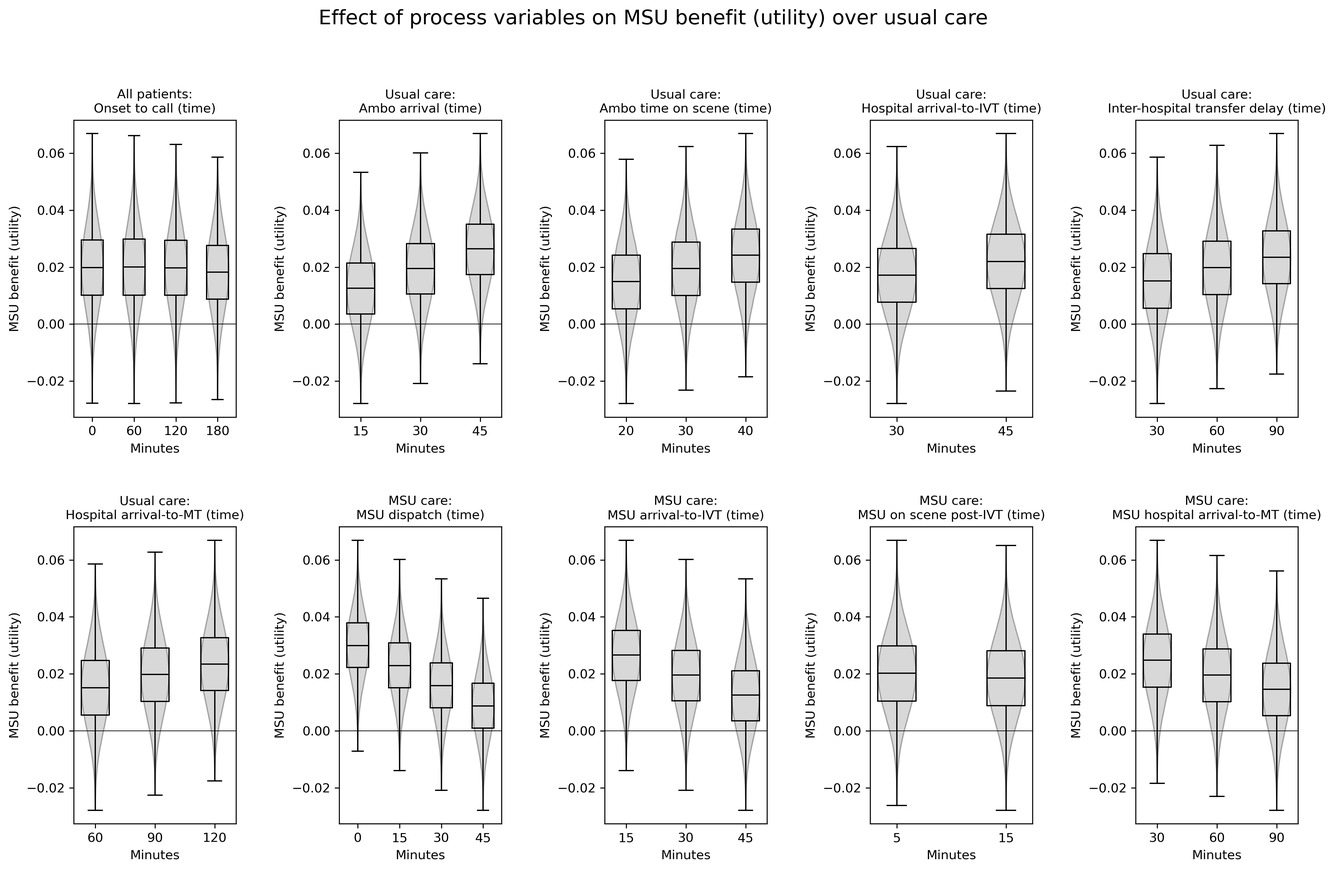
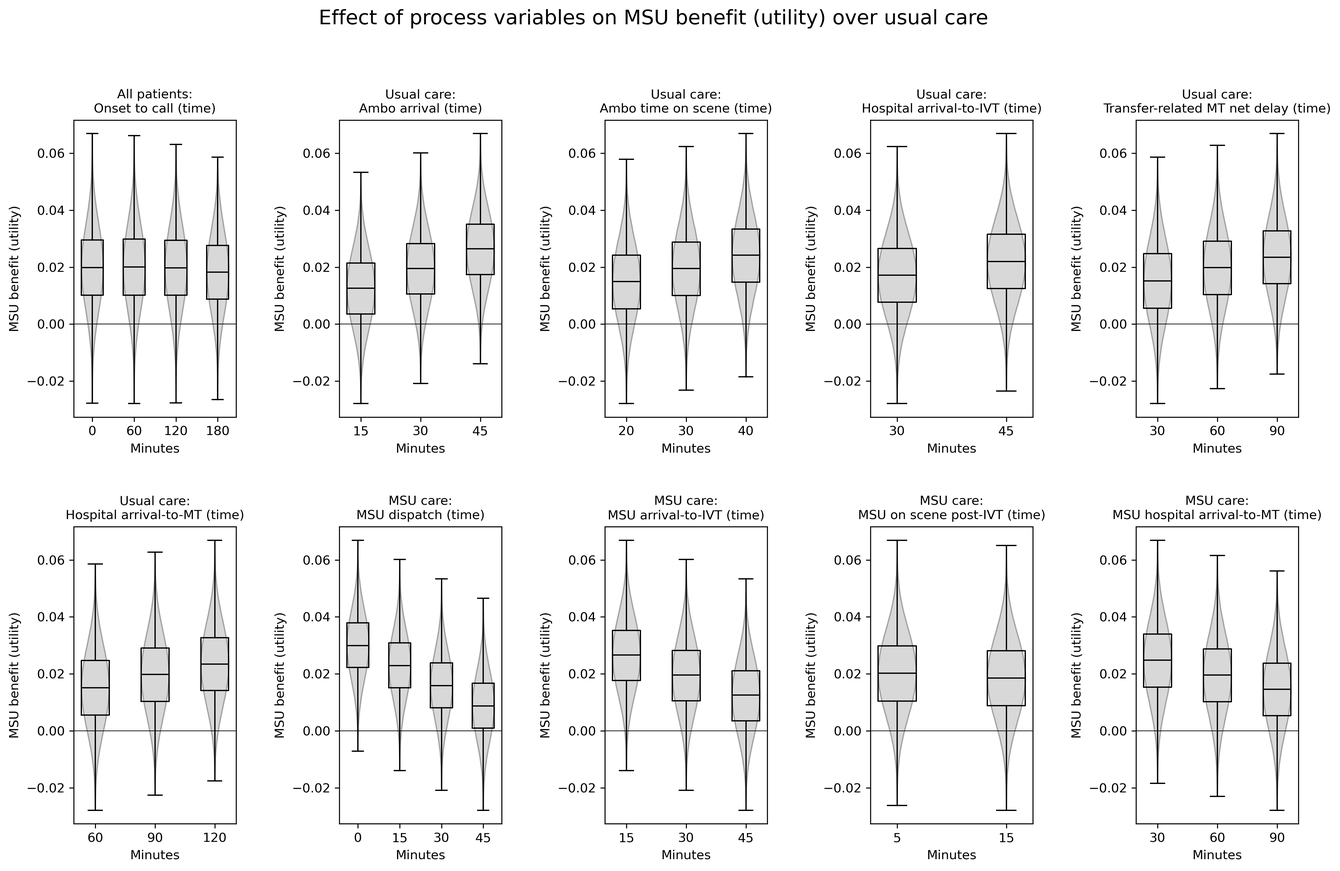
Updates from Overleaf

diff --git a/sections/5_results.tex b/sections/5_results.tex
@@ -2,38 +2,38 @@
 
 \subsection{Scenario analysis}
 
-Figure \ref{fig:scenarios_overview} shows the range of benefit, measured by utility or the proportion of patients with an outcome of mRS 0-2, across all of the scenarios (exploring the affect of changing the process durations), separating the changes for nLVO and LVO, or combining assuming 70\% nLVO and 30\% LVO in the treated population. When combining nLVO and LVO, 92\% of all scenarios showed MSU care has a net improvement in the proportion of patients with an outcome of mRS 0-2, compared with usual care. 77\%, 53\%, 29\%, and 11\% of all scenarios showed MSU care has a net improvement of at least 0.01, 0.02, 0.03, or 0.04 in the proportion of patients with an outcome of mRS 0-2, compared with usual care. 92\% of all scenarios showed MSU care has a net improvement in utility, compared with usual care. 75\%, 49\%, 23\%, and 7\% of all scenarios showed MSU care has a net improvement of at least 0.01, 0.02, 0.03, or 0.04 in utility, compared with usual care. Across the majority of scenarios the benefit of MSU care over usual care was typically (interquartile range across scenarios) an improvement of the proportion of patients mRS 0-2 of 0.005 to 0.023 for nLVO, 0.017 to 0.055 for LVO treated with both IVT and MT, and 0.011 to 0.032 for the combined nLVO/LVO populations. This translated to an improvement of 0.005 to 0.021 in utility for nLVO, 0.016 to 0.052 for LVO treated with both IVT and MT, and 0.010 to 0.029 for the combined nLVO/LVO populations. 
+Figure \ref{fig:scenarios_overview} shows the range of benefit, measured by utility or the proportion of patients with an outcome of mRS 0-2, across all of the scenarios (exploring the affect of changing the process durations), separating the changes for nLVO and LVO, or combining assuming 70\% nLVO and 30\% LVO in the treated population. For the combined nLVO/LVO population, 92\% of all scenarios showed MSU care has a net improvement in the proportion of patients with an outcome of mRS 0-2, compared with usual care. 77\%, 53\%, 29\%, and 11\% of all scenarios showed MSU care has a net improvement of at least 0.01, 0.02, 0.03, or 0.04 in the proportion of patients with an outcome of mRS 0-2, compared with usual care. 92\% of all scenarios showed MSU care has a net improvement in utility, compared with usual care. 75\%, 49\%, 23\%, and 7\% of all scenarios showed MSU care has a net improvement of at least 0.01, 0.02, 0.03, or 0.04 in utility, compared with usual care. Across the majority of scenarios the benefit of MSU care over usual care was typically (interquartile range across scenarios) an improvement of the proportion of patients mRS 0-2 of 0.005 to 0.023 for nLVO, 0.017 to 0.055 for LVO treated with both IVT and MT, and 0.011 to 0.032 for the combined nLVO/LVO population. This translated to an improvement of 0.005 to 0.021 in utility for nLVO, 0.016 to 0.052 for LVO treated with both IVT and MT, and 0.010 to 0.029 for the combined nLVO/LVO population. 
 
-The benefit to patients with LVO was derived mostly by improving benefit of MT by direct transport to a CSC for MT. For the combined nLVO/LVO population (assuming 70\% nLVO and 30\% LVO in the treated population) there was typically (interquartile range across scenarios) an improvement of 0.010 to 0.029 in utility, and an improvement of 0.011 to 0.032 for the proportion of patients with an outcome of mRS 0-2.
+The benefit to patients with LVO was derived mostly by improving benefit of MT by direct transport to a CSC for MT. For the combined nLVO/LVO population there was typically (interquartile range across scenarios) an improvement of 0.010 to 0.029 in utility, and an improvement of 0.011 to 0.032 for the proportion of patients with an outcome of mRS 0-2.
 
 \begin{figure}[h!]
     \centering
     \includegraphics[width=0.75\linewidth]{images/scenario_results_summary.png}
-    \caption{Benefit of MSU care over usual care across all process duration scenarios, in the treated population, measured by utility (left) or the proportion of patients with an outcome of mRS 0-2 (right), separating the changes for nLVO and LVO. Results for LVO show the effect of MSU care on the benefit derived from IVT alone, or by IVT/MT in combination. Box plots show range, interquartile range, and median across all scenarios. The combined nLVO/LVO benefit assumed 70\% nLVO and 30\% LVO in the treated population, with LVOs receiving IVT/MT in combination. Overlaid over the box plots are violin plots showing the distribution of results across all scenarios. A positive value indicates MSU care provides an advantage over usual care, and a negative value indicates MSU care is disadvantageous compared with usual care. Results are the average effect across all LSOAs in England.}
+    \caption{Benefit of MSU care over usual care across all scenarios (exploring the affect of changing process durations), in the treated population, measured by utility (left) or the proportion of patients with an outcome of mRS 0-2 (right), separating the changes for nLVO and LVO. Results for LVO show the effect of MSU care on the benefit derived from IVT alone, or by IVT/MT in combination. Box plots show range, interquartile range, and median across all scenarios. The combined nLVO/LVO benefit assumed 70\% nLVO and 30\% LVO in the treated population, with LVOs receiving IVT/MT in combination. Overlaid over the box plots are violin plots showing the distribution of results across all scenarios. A positive value indicates MSU care provides an advantage over usual care, and a negative value indicates MSU care is disadvantageous compared with usual care. Results are the average effect across all LSOAs in England.}
     \label{fig:scenarios_overview}
 \end{figure}
 
-Figures \ref{fig:scenarios_mrs}  and \ref{fig:scenarios_utility} shows how changing modelled process durations affects the predicted benefit of MSU care, expressed in proportion mRS 0-2 or utility, respectively. Results show the combined affect on nLVO/LVO, with LVO receiving IVT/MT in combination. Changing time from onset to call only had marginal effect on the benefit of MSU care over usual care. Changing parameters that worsen usual care (such as lengthening ambulance response times, or lengthening arrival to IVT), lead to improved advantages of MSU care over usual care. Likewise, changing parameters that improve MSU care (such as MSU dispatch times, or time to IVT on scene) improved advantages of MSU care over usual care.
+Figures \ref{fig:scenarios_mrs}  and \ref{fig:scenarios_utility} shows how changing modelled process durations affects the predicted benefit of MSU care, expressed in proportion of patients with an outcome of mRS 0-2 or utility, respectively. Results show the combined affect on nLVO/LVO, with LVO receiving IVT/MT in combination. Changing time from onset to call only had marginal effect on the benefit of MSU care over usual care. Changing parameters that worsen usual care (such as lengthening ambulance response times, or lengthening arrival to IVT), lead to improved advantages of MSU care over usual care. Likewise, changing parameters that improve MSU care (such as MSU dispatch times, or time to IVT on scene) improved advantages of MSU care over usual care.
 
 \begin{figure}[h!]
     \centering
     \includegraphics[width=1\linewidth]{images/msu_net_mrs_0-2_benefit.png}
-    \caption{The effect of changing modelled process durations on the predicted benefit of MSU care over usual care, in the treated population, measured by utility. For each target parameter, results are averaged across all scenarios with that given parameter value. Box plots show range, interquartile range, and median, across all scenarios. Overlaid over the box plots are violin plots showing the distribution of results across all scenarios. Results are the average effect across all LSOAs in England.}
+    \caption{The effect of changing modelled process durations on the predicted benefit of MSU care over usual care, in the treated population (comprised of 30\% nLVO and 70\% LVO patients, where nLVO patients receive IVT and LVO patients receive IVT followed by MT), measured by proportion of patients with an outcome of mRS 0-2. For each target parameter, results are averaged across all scenarios with that given parameter value. Box plots show range, interquartile range, and median, across all scenarios. Overlaid over the box plots are violin plots showing the distribution of results across all scenarios. Results are the average effect across all LSOAs in England.}
     \label{fig:scenarios_mrs}
 \end{figure}
 
 \begin{figure}[h!]
     \centering
     \includegraphics[width=1\linewidth]{images/msu_net_utility_benefit.png}
-    \caption{The effect of changing modelled process durations on the predicted benefit of MSU care over usual care, in the treated population, measured by utility. For each target parameter, results are averaged across all scenarios with that given parameter value. Box plots show range, interquartile range, and median, across all scenarios. Overlaid over the box plots are violin plots showing the distribution of results across all scenarios. Results are the average effect across all LSOAs in England.}
+    \caption{The effect of changing modelled process durations on the predicted benefit of MSU care over usual care, in the treated population (comprised of 30\% nLVO and 70\% LVO patients, where nLVO patients receive IVT and LVO patients receive IVT followed by MT), measured by utility. For each target parameter, results are averaged across all scenarios with that given parameter value. Box plots show range, interquartile range, and median, across all scenarios. Overlaid over the box plots are violin plots showing the distribution of results across all scenarios. Results are the average effect across all LSOAs in England.}
     \label{fig:scenarios_utility}
 \end{figure}
 
 \subsection{Geographic variation}
 
-For this comparison, the MSUs are based at CSCs only, and we assume there is a mix of 70\% nLVO and 30\% LVO in the treated population.
+For this comparison, the MSUs are based at CSCs only, and we assume there is a mix of 70\% nLVO and 30\% LVO in the treated population (where nLVO patients receive IVT and LVO patients receive IVT followed by MT).
 
-Figure \ref{fig:map_times} shows travel and transfer times for usual care and for MSU care. Under usual care, when a patient first attends a PSC (providing only IVT), the times to MT include the travel time to the nearest PSC, the inter-hospital travel time between PSC and its nearest CSC, and a net additional delay of 60 minutes (taking into account the \textit{door-in-door-out} time at the first admitting hospital and any reduction in time to MT at the CSC for transferred-in patients. Under usual care, there is significant variation in travel times from patient LSOA to the first attended centre (PSC or CSC) for IVT, but there is more substantial variation in times to MT due to some patients (67\% of LSOAs and 70\% of admissions) requiring a transfer for MT. Under MSU care, as the MSUs are based at CSCs only, travel times for an MSU to deliver IVT can exceed the travel time of a normal ambulance to the closest centre providing IVT, and this extra travel time can lead to delayed time to IVT in those LSOAs furthest away from MSU base locations. However, for patients living in LSOAs that are close to a CSC, but with a PSC even closer, these patients benefit from MT sooner under MSU care, than compared to usual care as they avoid the delays relating to attending the PSC first.
+Figure \ref{fig:map_times} shows travel and transfer times for usual care and for MSU care. Under usual care, when a patient first attends a PSC (providing only IVT), the travel/transfer time to MT include the travel time to the nearest PSC, and a net additional 60 minute delay (taking into account the \textit{door-in-door-out} time at the first admitting hospital and a reduction in time to MT at the CSC for transferred-in patients). Under usual care, there is significant variation in travel times from patient LSOA to the first attended centre (PSC or CSC) for IVT, but there is more substantial variation in times to MT due to some patients (67\% of LSOAs and 70\% of admissions) requiring a transfer for MT. Under MSU care, as the MSUs are based at CSCs only, travel times for an MSU to deliver IVT can exceed the travel time of a normal ambulance to the closest centre providing IVT, and this extra travel time can lead to delayed time to IVT in those LSOAs furthest away from MSU base locations. However, for patients living in LSOAs that are close to a CSC, but with a PSC even closer, these patients benefit from MT sooner under MSU care, than compared to usual care as they avoid the delays relating to attending the PSC first.
 
 \begin{figure}[h!]
     \centering
@@ -42,12 +42,11 @@ Figure \ref{fig:map_times} shows travel and transfer times for usual care and fo
     \label{fig:map_times}
 \end{figure}
 
+With no reperfusion treatment, there is an average outcome utility of 0.52 across the combined nLVO/LVO population. With usual care, there is a utility gain of 0.086 in treated patients. MSU care provided an average further utility gain in treated patients of 0.022 over usual care.
 
-With no reperfusion treatment, there is an average outcome utility of 0.52 across nLVO and LVO. With usual care, there is a utility gain of 0.086 in treated patients. MSU care provided an average further utility gain in treated patients of 0.022 over usual care.
+Figures \ref{fig:msu_map_mrs_0_2} and \ref{fig:msu_map_utility} show maps (by stroke type) of geographic variation in benefit (expressed in proportion of patients with an outcome of mRS 0-2 or utility, respectively) between treatment delivery models. There is significant variation in the benefit of reperfusion using usual care, with those living closest to CSCs receiving the greatest benefit. This is due to the larger utility gain of reperfusion treatment coming from the treatment of LVO, and with those patients benefiting most from rapid access to MT.
 
-Figures \ref{fig:msu_map_mrs_0_2} and \ref{fig:msu_map_utility} show maps (by stroke type) of geographic variation in benefit (expressed in proportion mRS 0-2 or utility, respectively) between treatment models. There is significant variation in the benefit of reperfusion using usual care, with those living closest to CSCs receiving the greatest benefit. This is due to the larger utility gain of reperfusion treatment coming from the treatment of LVO, and with those patients benefiting most from rapid access to MT.
-
-The benefit of MSU care over usual care follows different patterns for nLVO and LVO patients. For nLVO patients, the benefit of MSU care decreases with increased distance from the MSU base location. For LVO patients the benefit of MSU care first decreases with with increased distance from the MSU base location, but then benefit increases where use of the MSU avoids inter-hospital transfer for MT, before decreasing again with greater travel times for the MSU. The catchment area of benefit for LVO under MSU care is therefore wider than the catchment area of benefit for nLVO, with the maximum benefit being in a halo a little distance from the MSU base location, where patient transfer for MT is avoided but MSU travel times are still acceptable.
+The benefit of MSU care over usual care follows different patterns for nLVO and LVO patients. For nLVO patients, the benefit of MSU care decreases with increased distance from the MSU base location. For LVO patients the benefit of MSU care first decreases with increased distance from the MSU base location, but then benefit increases where use of the MSU avoids inter-hospital transfer for MT, before decreasing again with greater travel times for the MSU. The catchment area of benefit for LVO under MSU care is therefore wider than the catchment area of benefit for nLVO, with the maximum benefit being in a halo a little distance from the MSU base location, where patient transfer for MT is avoided but MSU travel times are still acceptable.
 
 \begin{figure}[h!]
     \centering
@@ -64,7 +63,7 @@ The benefit of MSU care over usual care follows different patterns for nLVO and 
 \end{figure}
 
 
-Figure \ref{fig:msu_histograms} shows histograms of benefit of MSU care over usual care for the modelled population (with benefit represented as time to treatment, proportion of patients mRS 0-2 after stroke, and utility). For most LSOAs MSU care improves the time to IVT and MT, but some areas have worsened times. This is reflected in most areas having a benefit of about a 0.03 increase in the proportion of patients with mRS 0-2 after stroke, and similarly a benefit of about a 0.03 increase in utility after stroke. Some areas though have reduced benefit, or even disbenefit of using MSUs. The maximum benefit is about 0.04 improvement in both the proportion of patients with mRS 0-2 after stroke and utility after stroke.
+Figure \ref{fig:msu_histograms} shows histograms of benefit of MSU care over usual care for the modelled population (with benefit represented as time to treatment, proportion of patients with outcome mRS 0-2 after stroke, and utility). For most LSOAs MSU care improves the time to IVT and MT, but some areas have worsened times. This is reflected in most areas having a benefit of about a 0.03 increase in the proportion of patients with mRS 0-2 after stroke, and similarly a benefit of about a 0.03 increase in utility after stroke. Some areas though have reduced benefit, or even disbenefit of using MSUs. The maximum benefit is about 0.04 improvement in both the proportion of patients with mRS 0-2 after stroke and utility after stroke.
 
 \begin{figure}[h]
     \centering
@@ -75,16 +74,21 @@ Figure \ref{fig:msu_histograms} shows histograms of benefit of MSU care over usu
 
 \subsection{Varying number of MSU base locations}
 
-A greedy algorithm was used to select MSU base locations (where MSU locations are added one at a time, with each new location selected based on the best possible improvement in utility by adding one more unit). The utility gain is calculated for those patients treated by an MSU rather than usual care. As the number of MSU base locations increased, the benefit of MSU care over usual care increased (figure \ref{fig:greedy}), but with diminishing returns. The advantage of MSU care over usual care improved utility by 0.020, 0.024, 0.027, and 0.29 with 10, 25, 50 and 100 MSU base locations when MSU base locations are chosen from any stroke unit type. There were 3 CSCs in the first 10 selections, and 8 CSCs in the first 20 selections. With MSU base locations at the 23 current CSCs, the net utility benefit over usual care was 0.022. With the same number of MSU base locations being selected from any stroke centre type, the utility benefit can be increased to 0.023.
+A greedy algorithm was used to select MSU base locations (where MSU base locations are sequentially added one at a time, with each new location selected based on the best possible improvement in utility by adding one more unit). The utility gain is calculated for those patients treated by an MSU rather than with usual care. As the number of MSU base locations increased, the benefit of MSU care over usual care increased (figure \ref{fig:greedy}), but with diminishing returns. The advantage of MSU care over usual care improved utility by 0.020, 0.024, 0.027, and 0.29 with 10, 25, 50 and 100 MSU base locations when MSU base locations are chosen from any stroke unit type. There were 3 CSCs in the first 10 selections, and 8 CSCs in the first 20 selections. With MSU base locations at the 23 current CSCs, the net utility benefit over usual care was 0.022. With the same number of MSU base locations being selected from any stroke centre type, the utility benefit can be increased to 0.023.
 
 \begin{figure}[h]
     \centering
     \includegraphics[width=0.5\linewidth]{images/msu_advantages_greedy.png}
-    \caption{Increasing number of MSU base locations, with selection by a greedy algorithm based on improvements in utility. The utility improvement is for those patients treated by MSU rather than usual care. Units were chosen either from any stroke centre type (solid line) or only from CSCs (dashed line).}
+    \caption{Increasing number of MSU base locations, with selection by a greedy algorithm based on improvements in utility. The additional utility is for those patients treated by MSU rather than usual care. Units were chosen either from any stroke centre type (solid line) or only from CSCs (dashed line).}
     \label{fig:greedy}
 \end{figure}
 
 \subsection{Proportion of patients receiving reperfusion}
 
-In our modelling we have focussed on the benefit for those who receive IVT or MT. Overall, the central probability across realistic scenarios was one extra independent-living outcome for every 50 patients treated. IVT and MT rates vary significantly between countries \cite{kim_global_2024}, but we might take a realistic target of 20\% of patients receiving IVT or MT, in which case there would be one extra independent-living outcome for every 250 confirmed stroke patients where the MSU is dispatched. Not all patients suspected of having stroke at ambulance dispatch will have a confirmed stroke; positive predicted value of suspected stroke at emergency dispatch is about 50\% \cite{wenstrup_emergency_2024}, in which case there would be one extra independent-living outcome for every 500 of all patients where the MSU is dispatched.
+\textbf{SEE NEW PARAGRAPH OPTION BELOW}
 
+In our modelling we have focussed on the benefit for those who receive IVT or MT. Overall, the central probability across realistic scenarios was one extra independent-living outcome for every 50 patients treated. IVT and MT rates vary significantly between countries \cite{kim_global_2024}, but we might take a realistic target of 20\% of patients receiving IVT or MT, in which case there would be one extra independent-living outcome for every 250 confirmed stroke patients where the MSU is dispatched. Not all patients suspected of having a stroke at ambulance dispatch will have a confirmed stroke; positive predicted value of suspected stroke at emergency dispatch is about 50\% \cite{wenstrup_emergency_2024}, in which case there would be one extra independent-living outcome for every 500 of all patients where the MSU is dispatched.
+
+\textbf{ADJUSTING THE ABOVE PARAGRAPH TO CONTAIN A TRACEABLE METHOD}
+
+In our modelling we have focussed on the benefit for those who receive IVT or MT. Here we will translate our results into how many patients to treat with MSUs to get one extra independent-living outcome. To represent an \emph{overall} case, take the the median benefit across all scenarios for the combined nLVO/LVO treated population; this is an additional 0.020 for the proportion of patients with an outcome of mRS 0-2 (RHS plot in figure \ref{fig:scenarios_overview}). This can be translated as one extra independent-living outcome for every 50 patients treated. IVT and MT rates vary significantly between countries \cite{kim_global_2024}, and we acknowledge that national stroke systems would benefit from unit specific targets to reflect their specific setting \cite{OUR PAPER, BUT NEED TO FIND OUT WHICH ONE}, but for this illustrative purpose, we will take 20\% of patients receiving IVT or MT as a broadly realistic target, in which case there would be one extra independent-living outcome for every 250 confirmed stroke patients where the MSU is dispatched. Not all patients suspected of having a stroke at ambulance dispatch will have a confirmed stroke; positive predicted value of suspected stroke at emergency dispatch is about 50\% \cite{wenstrup_emergency_2024}, in which case there would be one extra independent-living outcome for every 500 of all patients where the MSU is dispatched.

diff --git a/sections/4_methods.tex b/sections/4_methods.tex
@@ -12,7 +12,7 @@ We performed our analysis across England using LSOA as our geographic footprint.
 
 \subsection{Stroke admission data}
 
-Stroke admission numbers per LSOA were taken from Hospital Episode Statistics (HES) 2017-2019 (using ICD-10 codes of I61, I63 and I64). The stroke patient population were divided into stroke type cohorts, based on vessel occlusion type (LVO and nLVO). Using analysis from reperfusion treatment clinical trials \cite{lees_time_2010, emberson_effect_2014, goyal_endovascular_2016, fransen_time_2016}, we classify each patient's vessel occlusion type based on their National Institutes of Health Stroke Scale (NIHSS) on arrival (NIHSS 0-10 as nLVO; NIHSS 11+ as LVO), as NIHSS has been shown to have higher accuracy in separating nLVO and LVO than other stroke scales (Area Under the Receiver Operating Characteristic Curve = 0.86 \cite{duvekot_comparison_2021}). Applying this classification to the stroke admission data in England and Wales (Sentinel Stroke National Audit Programme), this provides an estimate of 30\% LVO and 70\% nLVO in the treatable population. This proportion split was applied to each of the LSOAs in the study (to divide the total stroke admissions by LSOA as provided by HES into these two patient stroke type cohorts). These derived values were also cross-checked against stroke types identified in studies on pre-hospital selection of patients with suspected LVO \cite{de_la_ossa_herrero_design_2013}, where LVO made up 38\% of the population where RACE was applied. Population density was taken from the Office of National Statistics 2011 census.
+Stroke admission numbers per LSOA were taken from Hospital Episode Statistics (HES) 2017-2019 (using ICD-10 codes of I61, I63 and I64). In total there were 242,874 recorded stroke admissions coming from an England LSOA across those three years (an average of 2.47 admissions per LSO per year). The stroke patient population were divided into stroke type cohorts, based on vessel occlusion type (LVO and nLVO). Using analysis from reperfusion treatment clinical trials \cite{lees_time_2010, emberson_effect_2014, goyal_endovascular_2016, fransen_time_2016}, we classify each patient's vessel occlusion type based on their National Institutes of Health Stroke Scale (NIHSS) on arrival (NIHSS 0-10 as nLVO; NIHSS 11+ as LVO), as NIHSS has been shown to have higher accuracy in separating nLVO and LVO than other stroke scales (Area Under the Receiver Operating Characteristic Curve = 0.86 \cite{duvekot_comparison_2021}). Applying this classification to the stroke admission data in England and Wales (Sentinel Stroke National Audit Programme), this provides an estimate of 30\% LVO and 70\% nLVO in the treatable population. This proportion split was applied to each of the LSOAs in the study (to divide the total stroke admissions by LSOA as provided by HES into these two patient stroke type cohorts). These derived values were also cross-checked against stroke types identified in studies on pre-hospital selection of patients with suspected LVO \cite{de_la_ossa_herrero_design_2013}, where LVO made up 38\% of the population where RACE was applied. Population density was taken from the Office of National Statistics 2011 census.
 
 \subsection{Pathway processes modelling}
 
@@ -61,7 +61,7 @@ Scenario analysis was undertaken to investigate how changing assumed model param
         \item Call to ambulance arrival: 15, 30, 45
         \item Ambulance on-scene: 20, 30, 45
         \item Hospital arrival to IVT (door-to-needle): 30, 45
-        \item Net MT delay (excluding travel time): 30, 60, 90
+        \item Transfer-related net MT delay (excluding travel time): 30, 60, 90
         \item Hospital arrival to MT (door-to-puncture): 60, 90, 120
     \end{itemize}
     \item Mobile stroke units:
@@ -75,7 +75,7 @@ Scenario analysis was undertaken to investigate how changing assumed model param
 \end{spacing}
 \end{minipage}
 
-At the CSC in the usual care pathway, the \emph{hospital arrival to MT} time is likely to be shorter for patients transferred from a PSC, than for patients who are directly admitted. This is due to some of the necessary processes (such as information gathering, imaging and IVT) already being completed at the PSC. However, these patients will experience a delay in receiving MT (in addition to their inter-hospital travel time) due to waiting for transfer from the PSC. These two time durations (additional time waiting for transfer and shorter \emph{hospital arrival to MT}) are represented in the model as a single parameter: the \emph{net MT delay} parameter. For example, if the time spent in the PSC is 90 minutes (known as the \textit{door-in-door-out} time), but the \textit{hospital arrival to MT} is reduced by 30 minutes, this is represented by setting \textit{net delay in MT} to 60 minutes in the model and leaving the \emph{hospital arrival to MT} unchanged.
+At the CSC in the usual care pathway, the \emph{hospital arrival to MT} time is likely to be shorter for patients transferred from a PSC, than for patients who are directly admitted. This is due to some of the necessary processes (such as information gathering, imaging and IVT) already being completed at the PSC. However, these patients will experience a delay in receiving MT (in addition to their inter-hospital travel time) due to waiting for transfer from the PSC. These two time durations (additional time waiting for transfer and shorter \emph{hospital arrival to MT}) are represented in the model as a single parameter: the \emph{transfer-related net MT delay} parameter. For example, if the time spent in the PSC is 90 minutes (known as the \textit{door-in-door-out} time), but the \textit{hospital arrival to MT} is reduced by 30 minutes, this is represented by setting \textit{transfer-related net MT delay} to 60 minutes in the model and leaving the \emph{hospital arrival to MT} unchanged.
 
 \subsection{Geographic analysis}
 
@@ -93,7 +93,7 @@ To study geographic variation in benefit of MSU care, a single set of parameters
         \item Call to ambulance arrival: 20
         \item Ambulance on-scene: 30
         \item Hospital arrival to IVT: 45
-        \item Transfer-related delay (excluding travel time): 60
+        \item Transfer-related net MT delay (excluding travel time): 60
         \item Hospital arrival to MT: 90
     \end{itemize}
     \item Mobile stroke units:
@@ -110,4 +110,4 @@ To study geographic variation in benefit of MSU care, a single set of parameters
 
 \subsection{Varying number of MSU base locations}
 
-In order to study the effect of changing the number of MSU base locations, a greedy algorithm was used. In this method, 100 MSU base locations are sequentially added, with each additional one chosen only from the CSCs, in the order of maximum improvement in outcomes (utility). The utility gain is calculated for those patients treated by an MSU rather than usual care; the algorithm is therefore looking at the effect of changing the number of MSU base locations, rather than the number of physical MSUs. The algorithm can also be run with MSUs chosen from any stroke unit type.
+In order to study the effect of changing the number of MSU base locations, a greedy algorithm was used. In this method, 100 MSU base locations are sequentially added, with each additional one chosen from the 101 current stroke units (of any type), in the order of maximum improvement in outcomes (utility). The utility gain is calculated for those patients treated by an MSU rather than usual care; the algorithm is therefore looking at the effect of changing the number of MSU base locations, rather than the number of physical MSUs. The algorithm can also be run with MSU base locations chosen from only the 23 current CSCs.

diff --git a/sections/2_abstract.tex b/sections/2_abstract.tex
@@ -10,4 +10,4 @@ The primary objective of the study was to model the likely effect of MSUs on tim
 
 \textbf{Results}: For every 100 patients suitable for IVT or MT, there will likely be 1-3 more people who can live independently under MSU care because of earlier treatment (the range depends on how efficient MSU care is compared to usual care). The benefit comes from both earlier IVT and the direct transfer of patients likely to benefit from MT to their closest MT-centre (avoiding inter-hospital transfers that may be used in usual care). If, as is likely, about 1 in 5 stroke patients are suitable candidates for IVT or MT, the MSU would need to attend approximately 250 stroke patients for every one extra independent-living outcome. If about half of the patients whom the MSU is dispatched to are actual strokes (the others being stroke mimics), the MSU would need to attend approximately 500 patients for every one extra independent-living outcome. Some areas, furthest from where MSUs are based, will receive no benefit from MSUs, other areas may have up to 4 additional independent-living outcomes for every 100 patients suitable for IVT or MT. Quick MSU dispatch and fast on-scene treatment are crucial to achieving the benefit of MSUs, otherwise use of MSUs may have no overall benefit, or worse outcomes, than usual care. The above benefits do not include any other possible benefits unrelated to earlier IVT or MT.
 
-\textbf{Conclusions}: The study suggests that the overall benefit of MSU care is likely to be modest. Selective use of MSUs in specific areas might be more effective than widespread implementation. Rapid dispatch, fast on-scene treatment of patients, and careful selection of which patients to dispatch the MSU to (by location and confidence in that person being a confirmed stroke patient), are all critical for achieving benefit from MSU care. There are other considerations (such as resource limitations and implementation challenges), and MSUs should not be seen as an alternative to optimising day-to-day emergency stroke systems.
+\textbf{Conclusions}: This study suggests that the overall benefit of MSU care is likely to be modest. Selective use of MSUs in specific areas might be more effective than widespread implementation. Rapid dispatch, fast on-scene treatment of patients, and careful selection of which patients to dispatch the MSU to (by location and confidence in that person being a confirmed stroke patient), are all critical for achieving benefit from MSU care. MSUs should not be seen as an alternative to optimising day-to-day emergency stroke systems.

diff --git a/sections/8_supplementarty_material.tex b/sections/8_supplementarty_material.tex
@@ -9,6 +9,17 @@ The time to no effect was 6.3 hours for IVT \cite{emberson_effect_2014} and 8.0 
 
 We calculate the remaining IVT data using excess death rates of 1.1\% for nLVO and 3.4\% for LVO, from the difference in death rates of trial groups given IVT and given no treatment \cite{emberson_effect_2014}.
 
+\subsection{Zoom in on benefit around one CSC (MSU base location)}
+
+Figure \ref{fig:map_zoom} shows details of area of benefit/disbenfit of using MSU care over usual care. There is a halo of maximum benefit further out from the CSC where patients avoid an inter-hospital transfer (and associated delays for MT), but this enhanced benefit erodes with further travel time for the MSU.
+
+\begin{figure}
+    \centering
+    \includegraphics[width=0.75\linewidth]{images/map_zoom.jpg}
+    \caption{Travel time for the MSU (to patient, and return travel for MT) and the utility benefit of using MSU care over usual care.}
+    \label{fig:map_zoom}
+\end{figure}
+
 \subsection{Top 10 locations for MSUs}
 
 Figure \ref{fig:top_10} shows the first 10 locations chosen by a greedy algorithm, where MSU locations are added one at a time, with each new location selected based on the best possible improvement in utility by adding one more unit.
